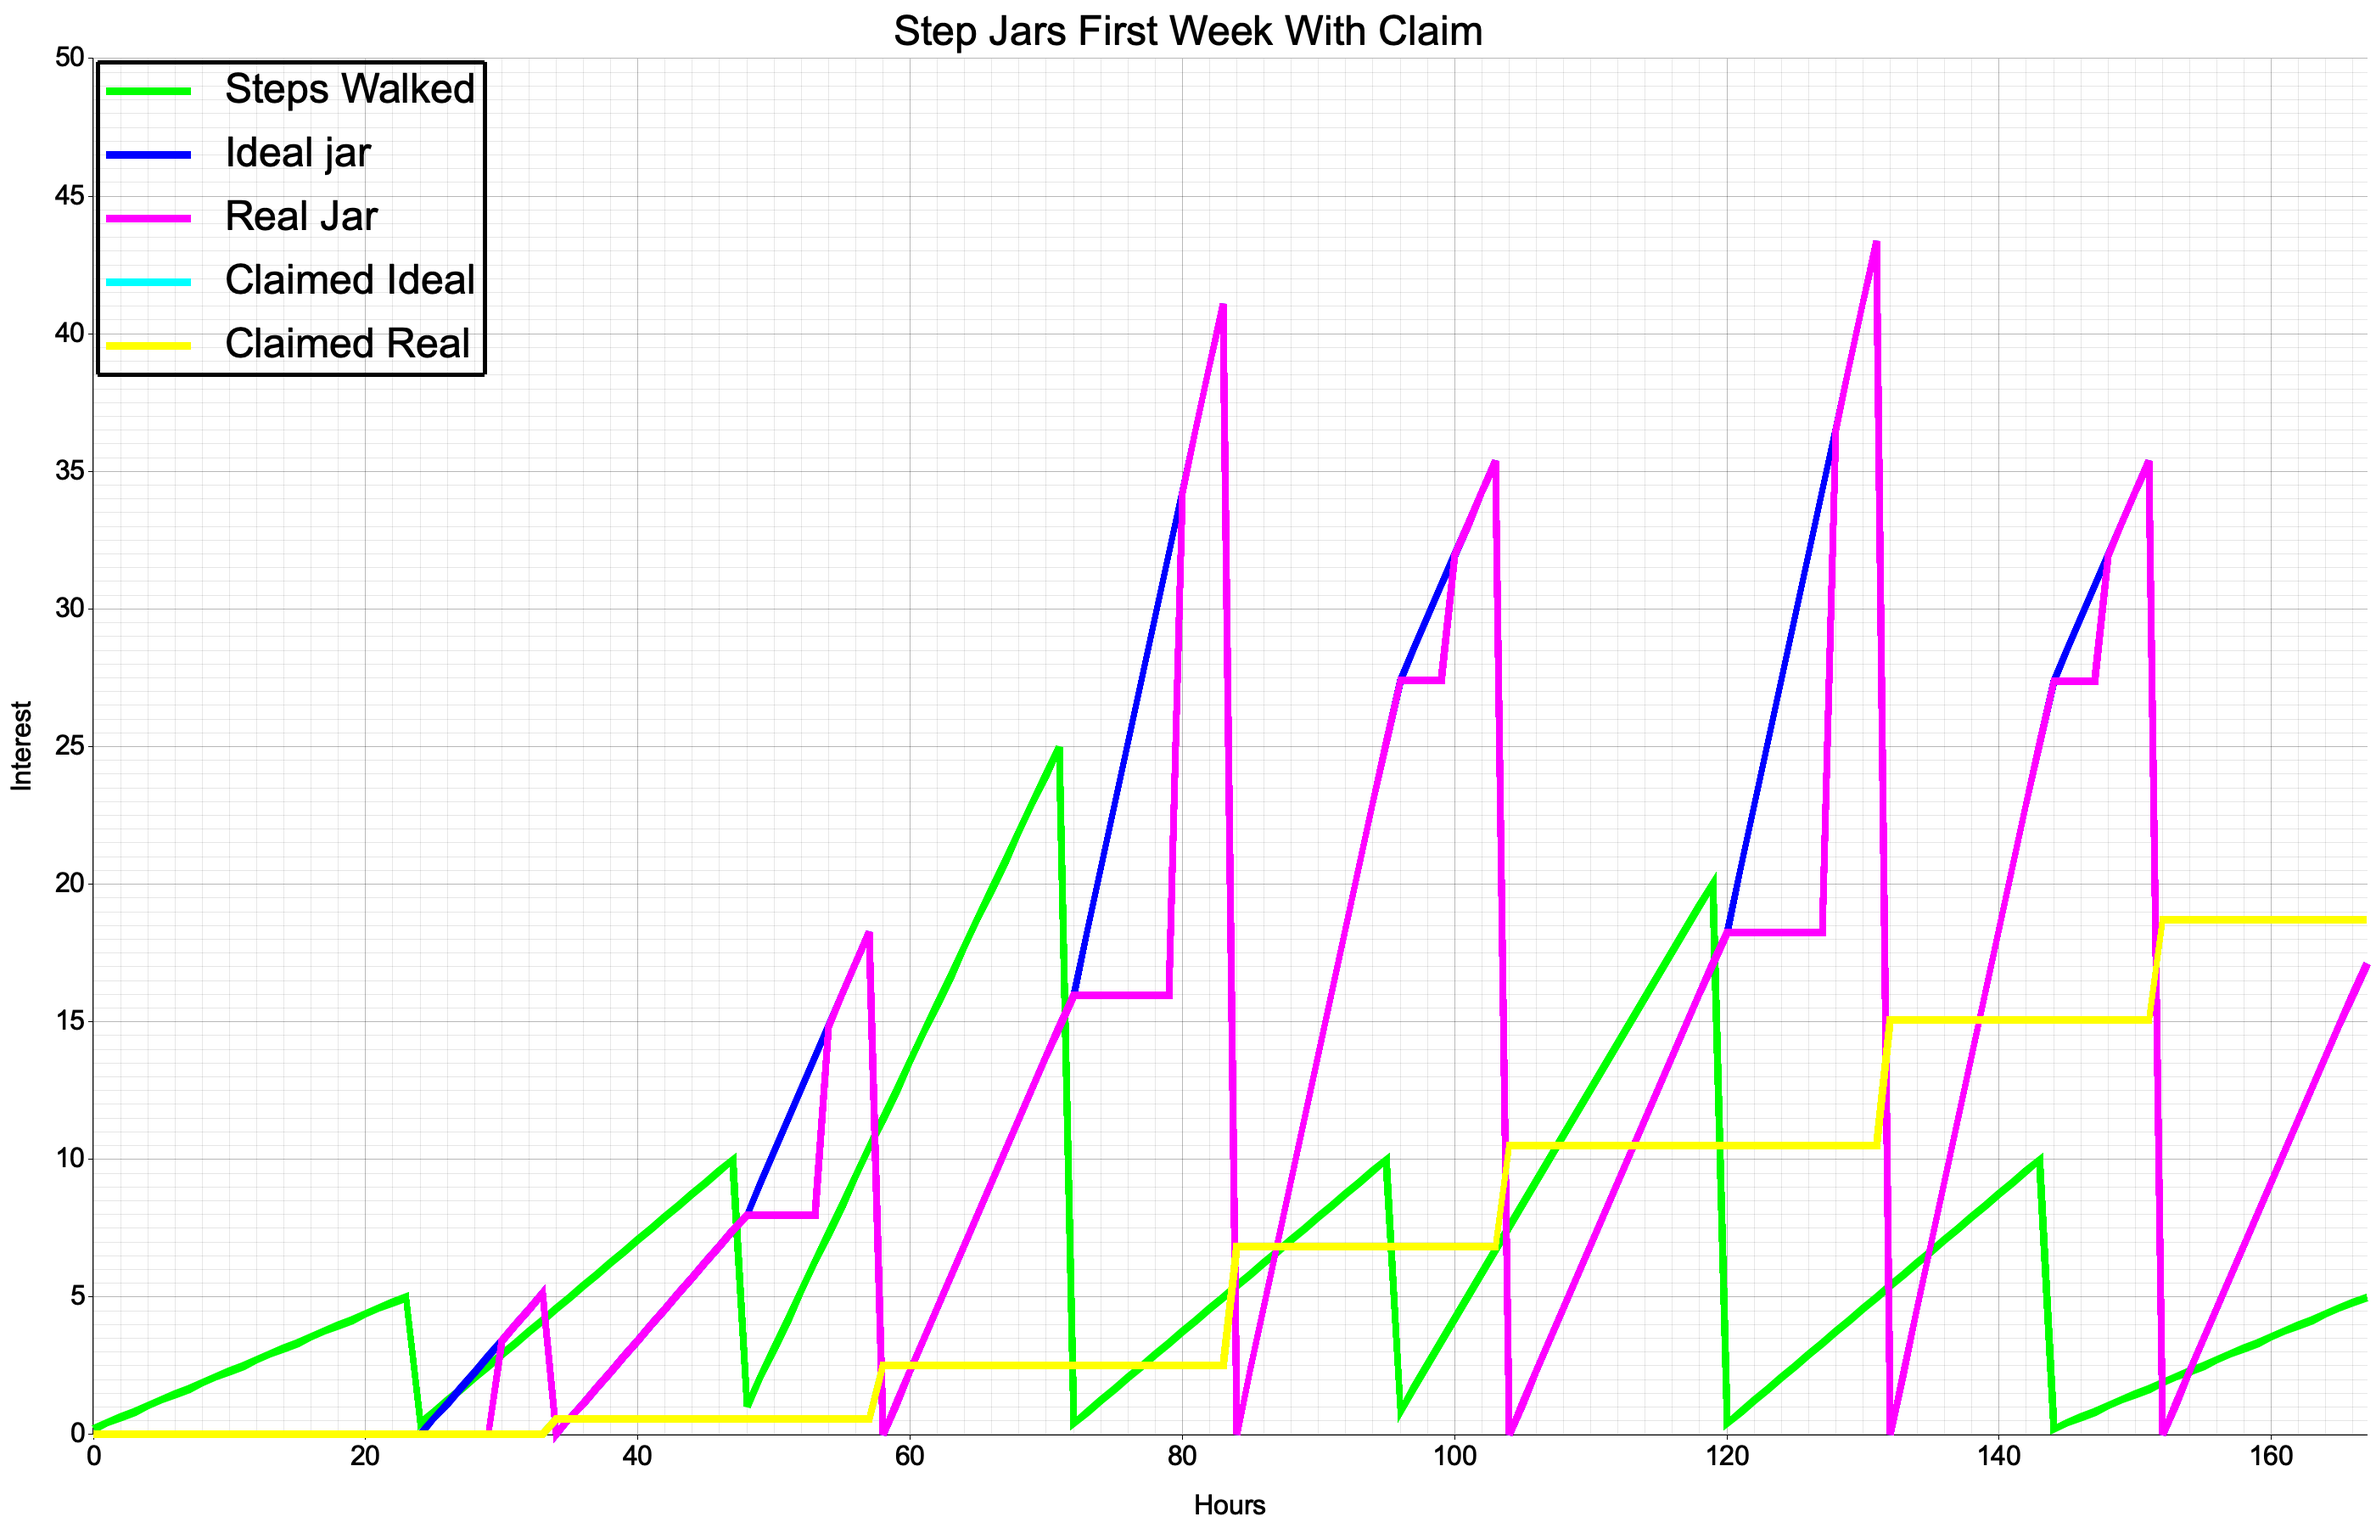
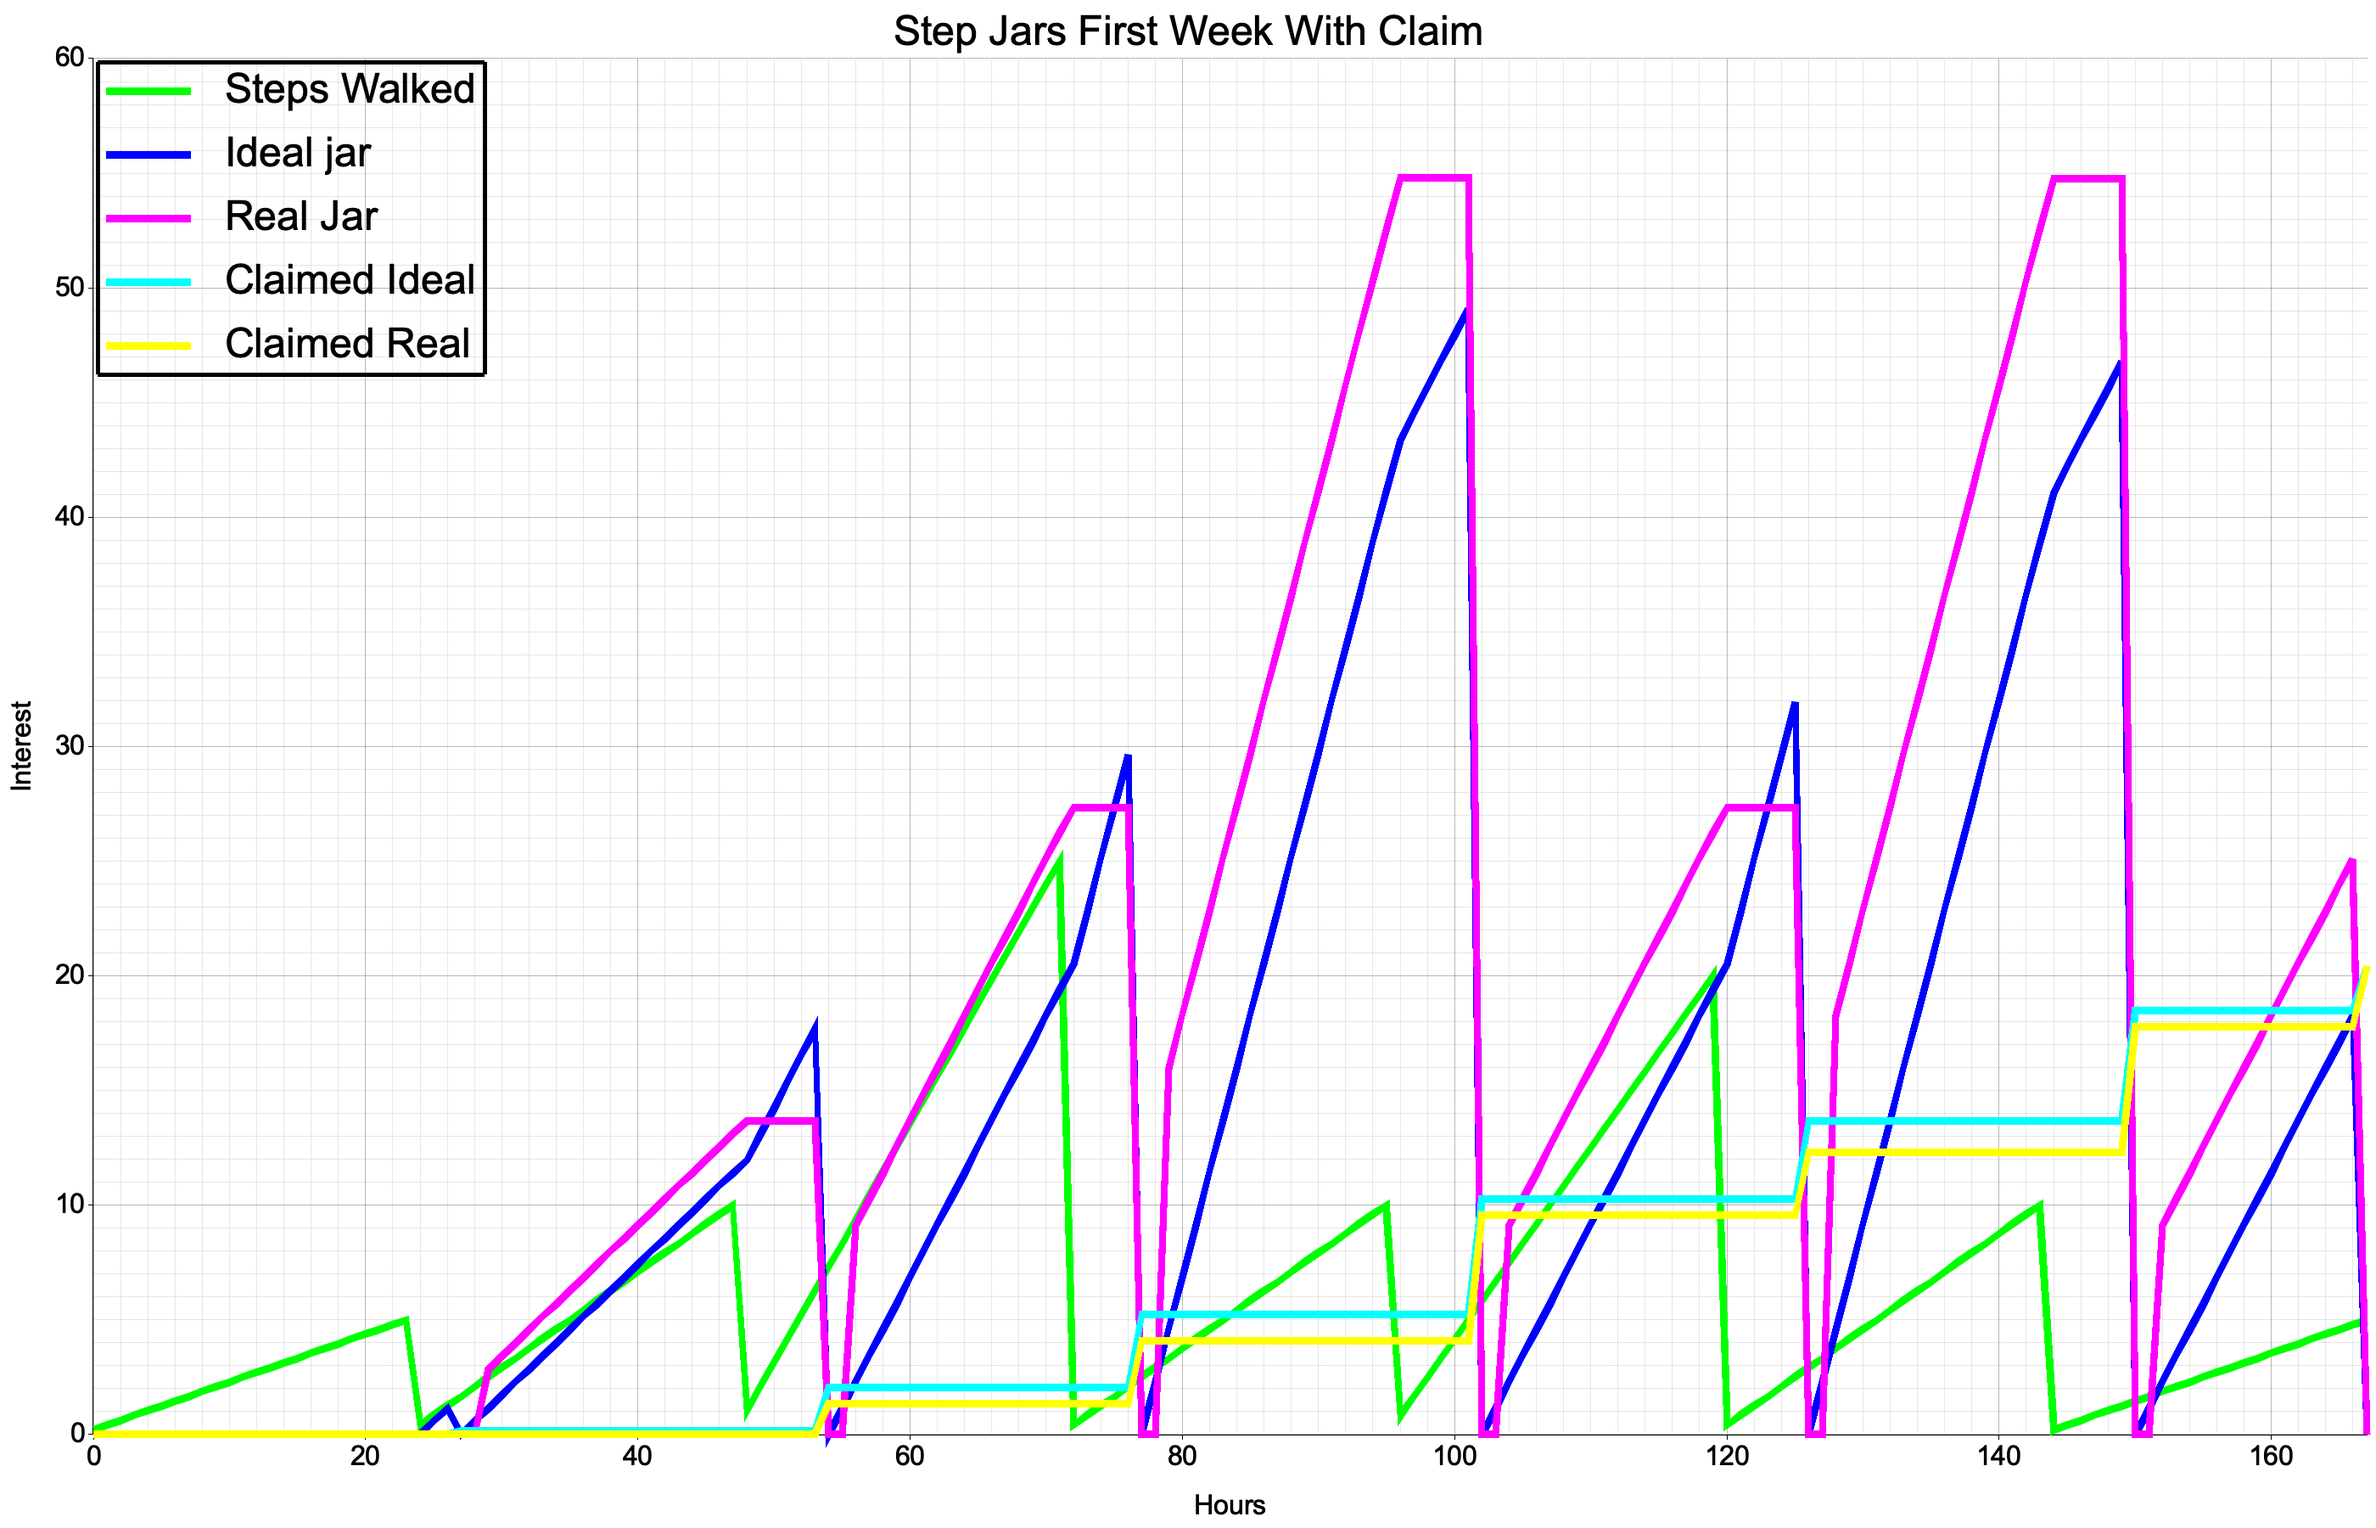
test: claim with adjustment

Changed region(s): [[0.0311, 0.0933, 1.0, 0.9644]]

diff --git a/contract/src/score/charts.rs b/contract/src/score/charts.rs
@@ -95,13 +95,27 @@ fn generate_first_week_data(with_claim: bool) -> (Vec<u128>, Vec<u128>, Vec<u128
 
         ctx.set_block_timestamp_in_hours(hour);
 
-        if walkchain_update_index > 0 {
-            if with_claim && hour as i32 == walkchain_updates[walkchain_update_index - 1] + 4 {
-                claimed_ideal += ctx.claim_total(alice());
-                claimed_real += ctx.claim_total(bob());
+        // if walkchain_update_index > 0 {
+        //     if with_claim && hour as i32 == walkchain_updates[walkchain_update_index - 1] + 4 {
+        //         claimed_ideal += ctx.claim_total(alice());
+        //         claimed_real += ctx.claim_total(bob());
+        //
+        //         assert_eq!(claimed_ideal, claimed_real);
+        //     }
+        // }
 
-                assert_eq!(claimed_ideal, claimed_real);
-            }
+        if with_claim && hour as i32 == walkchain_updates[walkchain_update_index] - 2 {
+            claimed_ideal += ctx.claim_total(alice());
+            claimed_real += ctx.claim_total(bob());
+
+            // assert_eq!(claimed_ideal, claimed_real);
+        }
+
+        if with_claim && hour == (24 * 7) - 1 {
+            claimed_ideal += ctx.claim_total(alice());
+            claimed_real += ctx.claim_total(bob());
+
+            assert_eq!(claimed_ideal - claimed_real, 2);
         }
 
         if hour as i32 == walkchain_updates[walkchain_update_index] {
